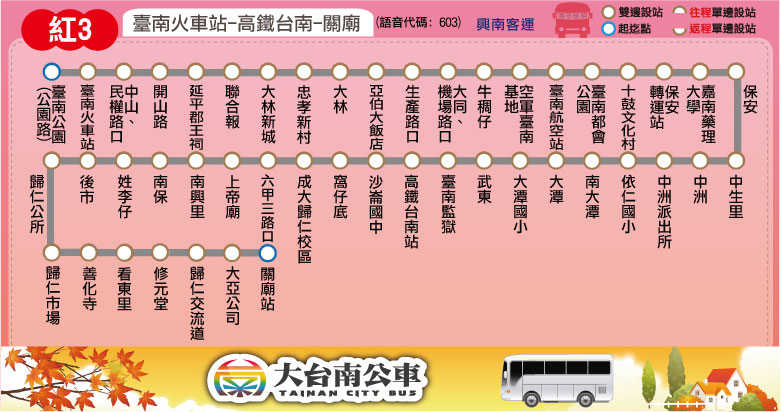
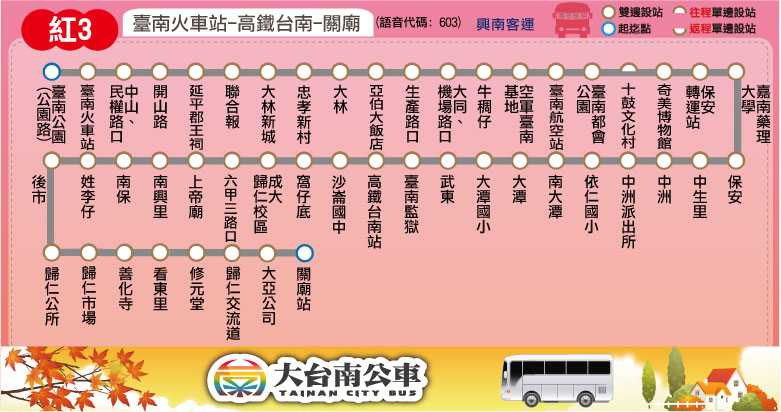
Update r3,r4 for Chimei Museum; Remove news: g16,r14,b2

diff --git a/red/red_3.html b/red/red_3.html
@@ -17,12 +17,11 @@
 <body>
 <script type="text/javascript">
 	block_header();
-	block_route_map(null,'<p align="left">1. 因「2015臺南喜洋羊跨年晚會活動」於高鐵台南站舉辦，自103年12月31日14時起至104年1月1日3時止實施交通管制，於管制時段本路線「紅3」線調整路徑如<a href="http://snnew.sg1010.myweb.hinet.net/1031219-3.pdf">附件</a>：原路線-中正南路二段-歸仁八路-歸仁大道-高鐵接駁車站位-歸仁十二路迴轉-原路線</p>\
-		<p align="left">2. 自104年1月1日起本路線紅3「台南-高鐵台南站-關廟」調整之站位如下：原「十鼓文化村」招呼站遷移至十鼓文化村停車場內，台南都會公園園區內增設「奇美博物館」招呼站票價歸屬台南都會公園。調整後路徑路徑如下：（不行經台南都會公園大門）<br /><font color="blue">台南往關廟：</font>原路線－機場路－文華路臺南都會公園－虎山橋旁右轉入奇美博物館站－文賢路-保安轉運站-原路線<br /><font color="blue">關廟往台南：</font>原路線－保安轉運站－文賢路左轉入奇美博物館站－文華路虎山橋右轉－十鼓文化村大門停車場（迴轉）－文華路臺南都會公園－機場路－原路線，詳情請參閱<a href="http://snnew.myweb.hinet.net/1031226-3.pdf">附件</a>。</p>');
+	block_route_map(null,'<p align="left">自104年1月1日起本路線紅3「台南-高鐵台南站-關廟」調整之站位如下：原「十鼓文化村」招呼站遷移至十鼓文化村停車場內，台南都會公園園區內增設「奇美博物館」招呼站票價歸屬台南都會公園。調整後路徑路徑如下：（不行經台南都會公園大門）<br /><font color="blue">台南往關廟：</font>原路線－機場路－文華路臺南都會公園－虎山橋旁右轉入奇美博物館站－文賢路-保安轉運站-原路線<br /><font color="blue">關廟往台南：</font>原路線－保安轉運站－文賢路左轉入奇美博物館站－文華路虎山橋右轉－十鼓文化村大門停車場（迴轉）－文華路臺南都會公園－機場路－原路線，詳情請參閱<a href="http://snnew.myweb.hinet.net/1031226-3.pdf">附件</a>。</p>');
 	block_route_info(route_interval,'興南客運','','里程計費','http://2384.tainan.gov.tw:8080/AGPSRemoteQuery3/ajaxBus.jsp?pathId=1603&locale=zh_TW');
 	block_fare(0, null);
 	block_time_schedule('臺南公園(公園路)','關廟','');
-	block_transfer(transfer_tainan_railway_station + transfer_baoan_railway_station + transfer_hsr_tainan_station + transfer_guanmiao);
+	block_transfer(transfer_tainan_railway_station + transfer_baoan_railway_station + transfer_chungchou_railway_station + transfer_CJCU_railway_station + transfer_hsr_tainan_station + transfer_guanmiao);
 	block_copyright();
 </script>
 </body>

diff --git a/route/fare_and_time/red_3.js b/route/fare_and_time/red_3.js
@@ -1,8 +1,8 @@
-red_3_interval_name = ["臺南","臺南<br />航空站","臺南<br />都會公園","保安<br />轉運站","嘉南科大","保安","中洲","大潭","武東","高鐵<br />臺南站","六甲","歸仁","關廟"];
+red_3_interval_name = ["臺南","臺南<br />航空站","臺南<br />都會公園","保安<br />車站","嘉南科大","保安","中洲","大潭","武東","高鐵<br />臺南站","六甲","歸仁","關廟"];
 red_3_interval_stop = [
 ["臺南公園(公園路)","臺南火車站","中山、民權路口","開山路","延平郡王祠","聯合報","大林新城","忠孝新村","大林","亞伯大飯店","生產路口","大同、機場路口"], // 臺南
 ["牛稠仔","臺南空軍基地","臺南航空站"], // 臺南航空站
-["臺南都會公園"], // 臺南都會公園
+["臺南都會公園","奇美博物館"], // 臺南都會公園
 ["十鼓文化村","保安轉運站"], // 保安轉運站
 ["嘉南藥理大學"], // 嘉南藥理科技大學
 ["保安"], // 保安
@@ -14,7 +14,7 @@ red_3_interval_stop = [
 ["上帝廟","南興里","南保","姓李仔","後市","歸仁公所","歸仁市場","善化寺","看東里","修元堂","歸仁交流道"], // 歸仁
 ["大亞公司","關廟站"] // 關廟
 ];
-red_3_stop_time_consume = [0,5,7,9,10,12,14,15,16,17,17,18,19,19,20,23,27,28,31,34,35,36,37,38,39,40,41,42,43,46,48,50,60,62,
+red_3_stop_time_consume = [0,5,7,9,10,12,14,15,16,17,17,18,19,19,20,23,25,27,28,31,34,35,36,37,38,39,40,41,42,43,46,48,50,60,62,
 65,66,67,68,69,70,71,71,72,73,74,74,75];
 red_3_fare = [
 [26],
@@ -34,8 +34,8 @@ red_3_fare = [
 // format = [time at the start stop] or
 // [time, other] or
 // [time, start_stop, end_stop, other]
-red_3_main_stop_name = ["臺南公園<br />(公園路)","臺南<br />火車站","臺南航空站","嘉南藥理<br />科技大學","高鐵臺南站","歸仁公所","關廟"];
-red_3_main_stop_time_consume = [0, 5, 20, 31, 46, 70, 75];
-red_3_important_stop = [0, 1, 2, 4, 6]; // 臺南公園, 臺南火車站, 臺南航空站, 高鐵臺南站, 關廟
+red_3_main_stop_name = ["臺南公園<br />(公園路)","臺南<br />火車站","臺南<br />航空站","奇美<br />博物館","保安<br />轉運站","嘉南藥理<br />科技大學","南大潭","高鐵<br />臺南站","歸仁公所","關廟"];
+red_3_main_stop_time_consume = [0, 5, 20, 25, 28, 31, 39, 46, 70, 75];
+red_3_important_stop = [0, 1, 3, 4, 7, 9]; // 臺南公園, 臺南火車站, 奇美博物館, 保安轉運站, 高鐵臺南站, 關廟
 red_3_time_go = [["06:05"],["07:05"],["08:05"],["10:05"],["12:05"],["14:05"],["16:05"],["17:05"],["18:05"],["19:05"]];
 red_3_time_return = [["05:50"],["07:20"],["08:40"],["10:40"],["12:40"],["14:40"],["16:40"],["17:40"],["18:40"],["19:40"]];

diff --git a/route/fare_and_time/red_4.js b/route/fare_and_time/red_4.js
@@ -1,13 +1,13 @@
-red_4_interval_name = ["臺南","文化","後壁厝","保安","保安<br />轉運站","臺南<br />都會公園"];
+red_4_interval_name = ["臺南","文化中心","後壁厝","保安","保安車站","臺南<br />都會公園"];
 red_4_interval_stop = [
 ["臺南公園(公園路)","臺南火車站","東門圓環","胸腔病院","聯合報","大林新城","忠孝新村","大林"], // 臺南
 ["巴克禮公園","崇德路","市立醫院","東區電信局","第一分局","德高國小"], // 文化
 ["中華醫事科技大學","仁德國中","後壁厝","三塊厝","鉅全公司","蔦松腳","田厝"], // 後壁厝
 ["奇美公司","保安工業區","保安宮"], // 保安
-["保安轉運站","十鼓文化村"], // 保安轉運站
-["臺南都會公園"] // 臺南都會公園
+["保安轉運站"], // 保安轉運站
+["奇美博物館"] // 臺南都會公園
 ];
-red_4_stop_time_consume = [0,5,8,9,10,12,13,14,17,19,20,21,24,26,30,33,36,37,38,39,40,41,42,43,45,46,50];
+red_4_stop_time_consume = [0,5,8,9,10,12,13,14,17,19,20,21,24,26,30,33,36,37,38,39,40,41,42,43,45,48];
 red_4_fare = [
 [26],
 [26,26],
@@ -19,8 +19,8 @@ red_4_fare = [
 // format = [time at the start stop] or
 // [time, other] or
 // [time, start_stop, end_stop, other]
-red_4_main_stop_name = ["臺南公園<br />(公園路)","臺南<br />火車站","巴克禮<br />公園","中華醫事<br />科技大學","保安<br />轉運站","臺南<br />都會公園"];
-red_4_main_stop_time_consume = [0, 5, 17, 30, 45, 50];
-red_4_important_stop = [0, 1, 4, 5]; // 臺南公園<, 臺南火車站, 保安>轉運站, 臺南都會公園
+red_4_main_stop_name = ["臺南公園<br />(公園路)","臺南<br />火車站","巴克禮<br />公園","中華醫事<br />科技大學","保安<br />轉運站","奇美<br />博物館"];
+red_4_main_stop_time_consume = [0, 5, 17, 30, 45, 48];
+red_4_important_stop = [0, 1, 4, 5]; // 臺南公園, 臺南火車站, 保安轉運站, 奇美博物館
 red_4_time_go = [["07:25"],["09:45"],["10:35"],["11:25"],["12:25"],["13:55"],["14:45"],["15:45"],["16:15"],["18:25"]];
 red_4_time_return = [["08:35"],["10:55"],["11:45"],["12:35"],["13:35"],["15:05"],["15:55"],["16:55"],["17:25"],["19:35"]];

diff --git a/red/red_4.html b/red/red_4.html
@@ -7,7 +7,7 @@
 	route_name_en = 'Red 4';
 	route_file_name = 'red_4';
 	route_type = 'red';
-	route_interval = ['臺南公園','臺南都會公園'];
+	route_interval = ['臺南公園','中華醫大','奇美博物館'];
 </script>
 <script src="../tools/web_model.js"></script> 
 <script type="text/javascript">
@@ -20,8 +20,8 @@
 	block_route_map(null,'<p align="left">自104年1月1日起本路線紅4「台南-中華醫事科技大學-台南都會公園」調整之站位如下：<br /><font color="blue">不行經臺南都會公園站及台南都會公園大門，不停靠十鼓文化村招呼站，台南都會公園園區內增設「奇美博物館」招呼站票價歸屬台南都會公園</font>。調整後路徑路徑如下：<br />原路線－保安轉運站－文賢路左轉入奇美博物館站－文華路虎山橋右轉－文賢路－保安轉運站－原路線，詳情請參閱<a href="http://snnew.myweb.hinet.net/1031226-3.pdf">附件</a>。</p>');
 	block_route_info(route_interval,'興南客運','','里程計費','http://2384.tainan.gov.tw:8080/AGPSRemoteQuery3/ajaxBus.jsp?pathId=1604&locale=zh_TW');
 	block_fare(0, null);
-	block_time_schedule('臺南公園(公園路)','臺南都會公園','');
-	block_transfer(transfer_tainan_railway_station + transfer_baoan_railway_station);
+	block_time_schedule('臺南公園(公園路)','奇美博物館','');
+	block_transfer(transfer_tainan_railway_station + transfer_rende_railway_station + transfer_baoan_railway_station);
 	block_copyright();
 </script>
 </body>

diff --git a/tools/transfer_information.js b/tools/transfer_information.js
@@ -386,3 +386,21 @@ transfer_baoan_railway_station = '<tr><th rowspan="2">保安轉運站</th>\
 	<td><font color="#00AAFF">台鐵保安站</font></td></tr>\
 <tr><td style="text-align: center"><img src="' + LOGO_DIR_PATH + 'red_transfer_logo.png"></td>\
 	<td id="red">' + link_red_3 + '、' + link_red_4 + '</td></tr>';
+
+transfer_rende_railway_station = '<tr><th rowspan="2">保安工業區</th>\
+<td style="text-align: center"><img src="' + LOGO_DIR_PATH + 'railway.png"></td>\
+	<td><font color="#00AAFF">台鐵仁德站</font></td></tr>\
+<tr><td style="text-align: center"><img src="' + LOGO_DIR_PATH + 'red_transfer_logo.png"></td>\
+	<td id="red">' + link_red_4 + '</td></tr>';
+
+transfer_chungchou_railway_station = '<tr><th rowspan="2">中洲</th>\
+<td style="text-align: center"><img src="' + LOGO_DIR_PATH + 'railway.png"></td>\
+	<td><font color="#00AAFF">台鐵中洲站</font></td></tr>\
+<tr><td style="text-align: center"><img src="' + LOGO_DIR_PATH + 'red_transfer_logo.png"></td>\
+	<td id="red">' + link_red_3 + '</td></tr>';
+
+transfer_CJCU_railway_station = '<tr><th rowspan="2">南大潭</th>\
+<td style="text-align: center"><img src="' + LOGO_DIR_PATH + 'railway.png"></td>\
+	<td><font color="#00AAFF">台鐵長榮大學站</font></td></tr>\
+<tr><td style="text-align: center"><img src="' + LOGO_DIR_PATH + 'red_transfer_logo.png"></td>\
+	<td id="red">' + link_red_3 + '</td></tr>';

diff --git a/green/green_16.html b/green/green_16.html
@@ -17,7 +17,7 @@
 <body>
 <script type="text/javascript">
 	block_header();
-	block_route_map(null,'因「2015臺南喜洋羊跨年晚會活動」於高鐵台南站舉辦，自103年12月31日14時起至104年1月1日3時止實施交通管制，於管制時段本路線「綠16 新化-高鐵台南站」線調整路徑如<a href="http://snnew.sg1010.myweb.hinet.net/1031219-3.pdf">附件</a>：原路線-中正南路二段-歸仁八路-歸仁大道-高鐵接駁車站位-歸仁十二路迴轉-原路線');
+	block_route_map(null);
 	block_route_info(route_interval,'興南客運','','里程計費','http://2384.tainan.gov.tw:8080/AGPSRemoteQuery3/ajaxBus.jsp?pathId=1116&locale=zh_TW');
 	block_fare(0, null);
 	block_time_schedule('新化','關廟/高鐵臺南站','<font color="red">「豐」</font>表示繞駛新豐高中，僅頭班繞駛');

diff --git a/blue/blue_2.html b/blue/blue_2.html
@@ -17,7 +17,7 @@
 <body>
 <script type="text/javascript">
 	block_header();
-	block_route_map(null,'為配合「2014雲嘉南白色觀光系列活動－井仔腳送夕陽」，本路線「藍2 佳里-溪底寮-井仔腳-南鯤鯓」線於103年12月31日（下午2時至6時30分）配合調整繞行縣171及台17線不停靠「北門公所」及「北門」兩處招呼站，「井仔腳」鹽田站改於「泰安宮」停靠，請乘客就鄰近站位搭乘，改道路徑如<a href="http://snnew.myweb.hinet.net/1031219-2.pdf">附件</a>圖示。');
+	block_route_map(null);
 	block_route_info(route_interval,'興南客運','','里程計費','http://2384.tainan.gov.tw:8080/AGPSRemoteQuery3/ajaxBus.jsp?pathId=1202&locale=zh_TW');
 	block_fare(0, null);
 	block_time_schedule('佳里','南鯤鯓','');

diff --git a/red/red_14.html b/red/red_14.html
@@ -17,7 +17,7 @@
 <body>
 <script type="text/javascript">
 	block_header();
-	block_route_map(null,'因「2015臺南喜洋羊跨年晚會活動」於高鐵台南站舉辦，自103年12月31日14時起至104年1月1日3時止實施交通管制，於管制時段本路線「紅14」線調整路徑如<a href="http://snnew.sg1010.myweb.hinet.net/1031219-3.pdf">附件</a>：原路線-中正南路二段-歸仁八路-歸仁大道-高鐵接駁車站位-歸仁十二路迴轉-原路線');
+	block_route_map(null);
 	block_route_info(route_interval,'興南客運','','里程計費','http://2384.tainan.gov.tw:8080/AGPSRemoteQuery3/ajaxBus.jsp?pathId=1614&locale=zh_TW');
 	block_fare(0, null);
 	block_time_schedule('關廟','高鐵臺南站','');

diff --git a/tools/route_infor.js b/tools/route_infor.js
@@ -43,7 +43,7 @@ red_route = "安平工業區 ─ 仁德 ─ 關廟 ─ 龍崎";
 red_1_route = "臺南公園 ─ 太子廟 ─ 關廟";
 red_2_route = "臺南公園 ─ 仁德 ─ 上崙子 ─ 關廟";
 red_3_route = "臺南公園 ─ 高鐵臺南站 ─ 關廟";
-red_4_route = "臺南火車站 ─ 臺南都會公園";
+red_4_route = "臺南公園 ─ 中華醫大 ─ 奇美博物館";
 red_10_route = "關廟 ─ 永康火車站 ─ 奇美醫院";
 red_11_route = "關廟 ─ 龍崎 ─ 牛埔農塘";
 red_12_route = "關廟 ─ 龍崎 ─ 烏山頭";
